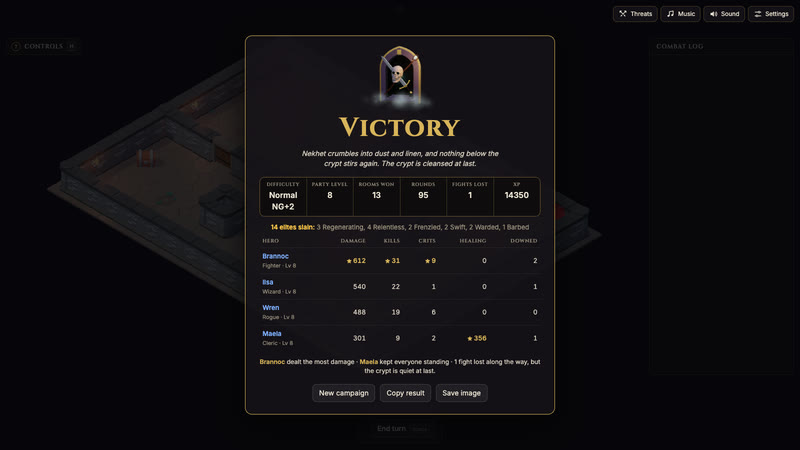
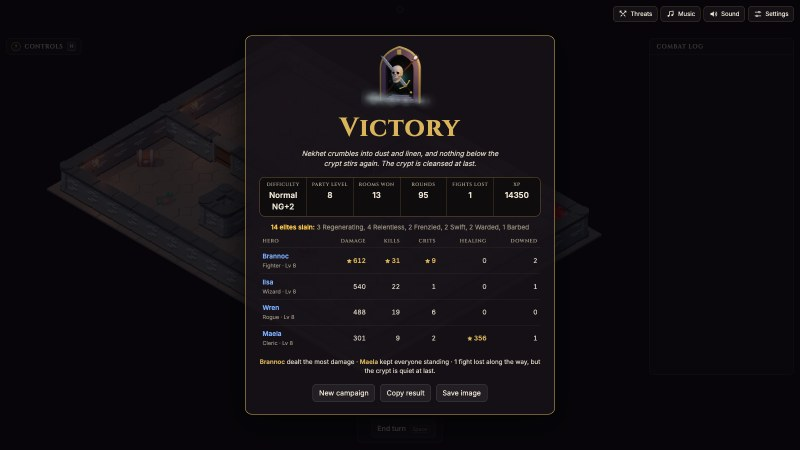
Add npm run stills, let the skull mock a defeat and follow the pointer with its eyes

diff --git a/src/main.js b/src/main.js
@@ -196,25 +196,27 @@ const camp = new Camp({
 // on, or on a 2G connection, the flat one stays and the skull isn't downloaded.
 const slowLink = ((c) => !!c && (c.saveData || /2g/.test(c.effectiveType ?? '')))(navigator.connection);
 const logoModule = () => import('./render/titleLogo.js');
-let titleLogo = null, victoryLogo = null;
+let titleLogo = null, bannerLogo = null;
 if (!slowLink) logoModule().then((m) => m.mountTitleLogo(document.querySelector('#title .title-emblem'))).then((l) => { titleLogo = l; }).catch(() => {});
 
-/** The won-campaign screen's skull: a second 3D emblem, mounted the first time, that laughs. */
-function victorySkull() {
+/**
+ * The end banner's skull (the won campaign and every defeat): a second 3D emblem, mounted the
+ * first time, that plays `move`: a laugh for the won campaign, a mocking chatter for a defeat.
+ */
+function bannerSkull(move) {
   if (slowLink) return;
-  const laugh = (l) => { victoryLogo = l; setTimeout(() => l?.poke('laugh'), 900); };
-  victorySkull.mounting ??= logoModule()
+  bannerSkull.mounting ??= logoModule()
     .then((m) => m.mountTitleLogo(document.querySelector('#banner-emblem img'), { className: 'banner-logo', hint: false }))
     .catch(() => null);
-  victorySkull.mounting.then(laugh);
+  bannerSkull.mounting.then((l) => { bannerLogo = l; setTimeout(() => l?.poke(move), 900); });
 }
 
-// K: the skull on the title (or the won-campaign screen) plays its next move.
+// K: the skull on the title (or the end banner) plays its next move.
 window.addEventListener('keydown', (ev) => {
   if (ev.code !== 'KeyK' || ev.repeat || ev.altKey || ev.metaKey || ev.ctrlKey || replay) return;
   if (ev.target instanceof HTMLInputElement) return; // typing a hero's name
   if (!document.getElementById('title').hidden) titleLogo?.poke();
-  else if (!document.getElementById('banner-emblem').hidden) victoryLogo?.poke();
+  else if (!document.getElementById('banner-emblem').hidden) bannerLogo?.poke();
 });
 
 function startCampaign(difficulty, names, classes) {
@@ -1033,12 +1035,15 @@ async function checkGameOver() {
   hud.renderActionBar(game, { selected: null, busy: false });
   if (game.over === 'victory') {
     sfx.victory();
-    if (end.final) victorySkull();
+    if (end.final) bannerSkull('laugh');
     if (!end.final) {
       board.lightStairs();
       setTimeout(() => sfx.stairs(), 900);
     }
-  } else sfx.defeat();
+  } else {
+    sfx.defeat();
+    bannerSkull('chatter');
+  }
   hud.banner(game.over, end.banner);
   return true;
 }
@@ -1344,7 +1349,7 @@ const controls = createControls({
 function showSampleVictory() {
   saving = false;
   hud.banner(...sampleVictory(location.search));
-  victorySkull();
+  bannerSkull('laugh');
 }
 
 // ?level=3 jumps straight into a room with a fresh party (handy for testing); &party=5 sets

diff --git a/src/render/titleLogo.js b/src/render/titleLogo.js
@@ -88,6 +88,15 @@ export async function mountTitleLogo(img, { className = 'title-logo', hint = tru
     }
   };
   canvas.addEventListener('click', (e) => { if (onSkull(e)) poke(); });
+  // The embers in its sockets follow the pointer around the page (and drift back when it leaves).
+  addEventListener('pointermove', (e) => {
+    const r = canvas.getBoundingClientRect();
+    if (!r.width) return;
+    const cx = r.left + r.width * 0.5, cy = r.top + r.height * 0.42;
+    anim.look.x = Math.max(-1, Math.min(1, (e.clientX - cx) / (innerWidth * 0.35)));
+    anim.look.y = Math.max(-1, Math.min(1, (cy - e.clientY) / (innerHeight * 0.35)));
+  });
+  document.documentElement.addEventListener('pointerleave', () => { anim.look.x = anim.look.y = 0; });
   // Draw only while the title is showing.
   new IntersectionObserver(([e]) => {
     last = performance.now();
@@ -301,6 +310,7 @@ function animator({ G, skull, eyes, orb, torch, cold, mist, wisps, halo, jaw }) 
 
   const MOVES = ['gape', 'chatter', 'twitch', 'laugh', 'lunge', 'gutter'];
   let move = 0;
+  const gaze = { x: 0, y: 0 }; // where the eyes look now, easing towards pose.look
 
   const pose = (dt, still) => {
     t += dt;
@@ -337,9 +347,15 @@ function animator({ G, skull, eyes, orb, torch, cold, mist, wisps, halo, jaw }) 
     const f = since(ev.flare), flare = !still && f < 1.4 ? Math.exp(-f * 2.5) * 3 : lurch * 2.5;
     const p = still ? 1 : 0.65 + 0.35 * Math.sin(t * 2);
     cold.intensity = 8 * p + flare * 10;
+    const ease = still ? 1 : Math.min(1, dt * 5);
+    gaze.x += ((still ? 0 : pose.look.x) - gaze.x) * ease;
+    gaze.y += ((still ? 0 : pose.look.y) - gaze.y) * ease;
     for (const e of eyes) {
       e.material.emissiveIntensity = 0.3 + 0.5 * p + flare * 2;
       e.scale.setScalar(1 + flare * 0.6);
+      e.userData.x ??= e.position.x;
+      e.position.x = e.userData.x + gaze.x * 0.065;
+      e.position.y = 0.05 + gaze.y * 0.045;
     }
     orb.material.emissiveIntensity = 0.5 + 0.6 * p + flare;
     halo.material.opacity = pose.hint && !still ? 0.6 * Math.max(0, Math.sin(t * 1.6)) ** 2 : 0;
@@ -362,6 +378,7 @@ function animator({ G, skull, eyes, orb, torch, cold, mist, wisps, halo, jaw }) 
   };
 
   pose.hint = false;
+  pose.look = { x: 0, y: 0 }; // the pointer, -1 to 1 each way from the skull
   /** Play the next move (or `name`) now, hold off the random ones for a moment, and return its name. */
   pose.poke = (name) => {
     if (!MOVES.includes(name)) name = MOVES[move++ % MOVES.length];

diff --git a/src/ui/banner.js b/src/ui/banner.js
@@ -38,7 +38,7 @@ export class EndBanner {
       ? 'takes a long rest before going deeper (full HP and spell slots)'
       : 'catches its breath (short rest: regain half your missing HP)';
     $('#banner-title').textContent = won ? (final ? 'Victory' : 'Room cleared') : 'Defeat';
-    $('#banner-emblem').hidden = !(won && final); // the skull laughs there (victorySkull in main.js)
+    $('#banner-emblem').hidden = won && !final; // the skull laughs or mocks there (bannerSkull in main.js)
     $('#banner-text').textContent = won
       ? final
         ? summary ? outro : `${outro} Won after ${rounds}. Well fought! (+${xp} XP)`

diff --git a/README.md b/README.md
@@ -137,11 +137,12 @@ It runs on desktop and on phones.
   keeps your best result and a streak of weeks won, and has a Copy result and Watch your best.
   If an update moves the week to another room, its best starts again there.
 - **Achievements:** 32 goals that carry across runs. Open them from the title screen.
-- **The title's skull** gapes, chatters and twitches on its own. Click or tap it (or press K)
-  to play its moves in turn, each with its own sound: gape, chatter, cocked head, laugh, lunge
-  and the torch guttering. A faint glow behind it pulses until the first click. It laughs on
-  the won-campaign screen too, and a still of it shows while the game loads and on the saved
-  run card. With Data Saver on or on a 2G connection the title keeps the flat emblem.
+- **The title's skull** gapes, chatters and twitches on its own, and the embers in its eyes
+  follow the pointer. Click or tap it (or press K) to play its moves in turn, each with its own
+  sound: gape, chatter, cocked head, laugh, lunge and the torch guttering. A faint glow behind
+  it pulses until the first click. It laughs on the won-campaign screen and chatters at you
+  after a defeat, and a still of it shows while the game loads and on the saved run card. With
+  Data Saver on or on a 2G connection the title keeps the flat emblem.
 - **Bestiary:** every monster you've met, with its character card, a line of lore and how
   many you've slain. A note and a soft chime say when a new one joins, and a gold dot on its button waits
   until you look. Open it from the title screen or camp. It also keeps how much damage each
@@ -204,7 +205,7 @@ Everything is generated in the browser, with no recordings:
 | M / N | Sound / music on or off |
 | H or ? | Show or hide the controls panel |
 | L | Open or close the combat log |
-| K | On the title or the won-campaign screen: the skull plays its next move |
+| K | On the title, or a defeat or the won campaign: the skull plays its next move |
 | Tab / Esc in a panel | Tab stays inside the panel; Esc closes it |
 
 | Touch | Action |
@@ -257,6 +258,7 @@ npm test         # rules unit tests (Vitest)
 npm run lint     # ESLint: undefined names and unused code
 npm run sim      # balance check: plays whole campaigns headlessly
 npm run touch-check  # headless Chrome taps on a phone: first tap previews, second acts
+npm run stills   # re-renders the icons, link preview, boot still and README shots of the 3D emblem
 npm run build    # production bundle in dist/
 npm run preview  # http://localhost:4173/crypt-skirmish/
 ```
@@ -361,6 +363,7 @@ tests/               Vitest rules, replay and input tests, and a check that ever
 scripts/
   sim.js             headless balance simulator
   touch-check.mjs    real touch taps in headless Chrome against the dev server (URL= for another)
+  stills.mjs         stills of the 3D emblem and the README shots that show it (npm run stills)
   trim-models.js     strips unused animation clips from the models
   compress-models.js meshopt-compresses every .glb (npm run models)
 ```

diff --git a/CLAUDE.md b/CLAUDE.md
@@ -14,6 +14,7 @@ npm run sim -- 300     # headless balance check, run after changing monsters, sp
 npm run touch-check    # phone taps in headless Chrome (dev server on 5173), after changing input;
                        # the deploy runs it against the build on seeds 3, 1 and 5, and
                        # SEED=3 LATE=700 (a late lift must still be a tap)
+npm run stills         # re-render the 3D emblem's stills and README shots, after changing it
 npm run build          # production bundle (base path /crypt-skirmish/ in vite.config.js)
 ```
 
@@ -44,9 +45,10 @@ server on 5173.
   `emblem.svg` once the skull in `public/models/skull/` loads, and draws only while the title
   is on screen. Without WebGL, with Data Saver or on 2G the flat emblem stays. Clicking the
   skull (or K) plays its moves in turn with `sfx.skull(move)`; a glow hints at it until the first
-  click. The won-campaign banner mounts a second one that laughs (`victorySkull` in `main.js`).
-  `public/boot-logo.jpg` (the boot screen, the run card), the app icons and `og-image.jpg` are
-  stills of it: re-render them if the emblem changes.
+  click; its eyes follow the pointer (`pose.look`). The end banner mounts a second one that
+  laughs at the won campaign and chatters after a defeat (`bannerSkull` in `main.js`).
+  `public/boot-logo.jpg` (the boot screen, the run card), the app icons, `og-image.jpg` and the
+  title and victory screenshots are stills of it: `npm run stills` re-renders them.
 - Input lives in `src/controls.js`: mouse, touch and the arrow-key cursor (`stepTile` in
   `input.js`), which reuses the hover tile. Enter picks a tile and Enter again acts, like a
   second tap (`enterStep`). A move click on a party member picks the free tile behind it
